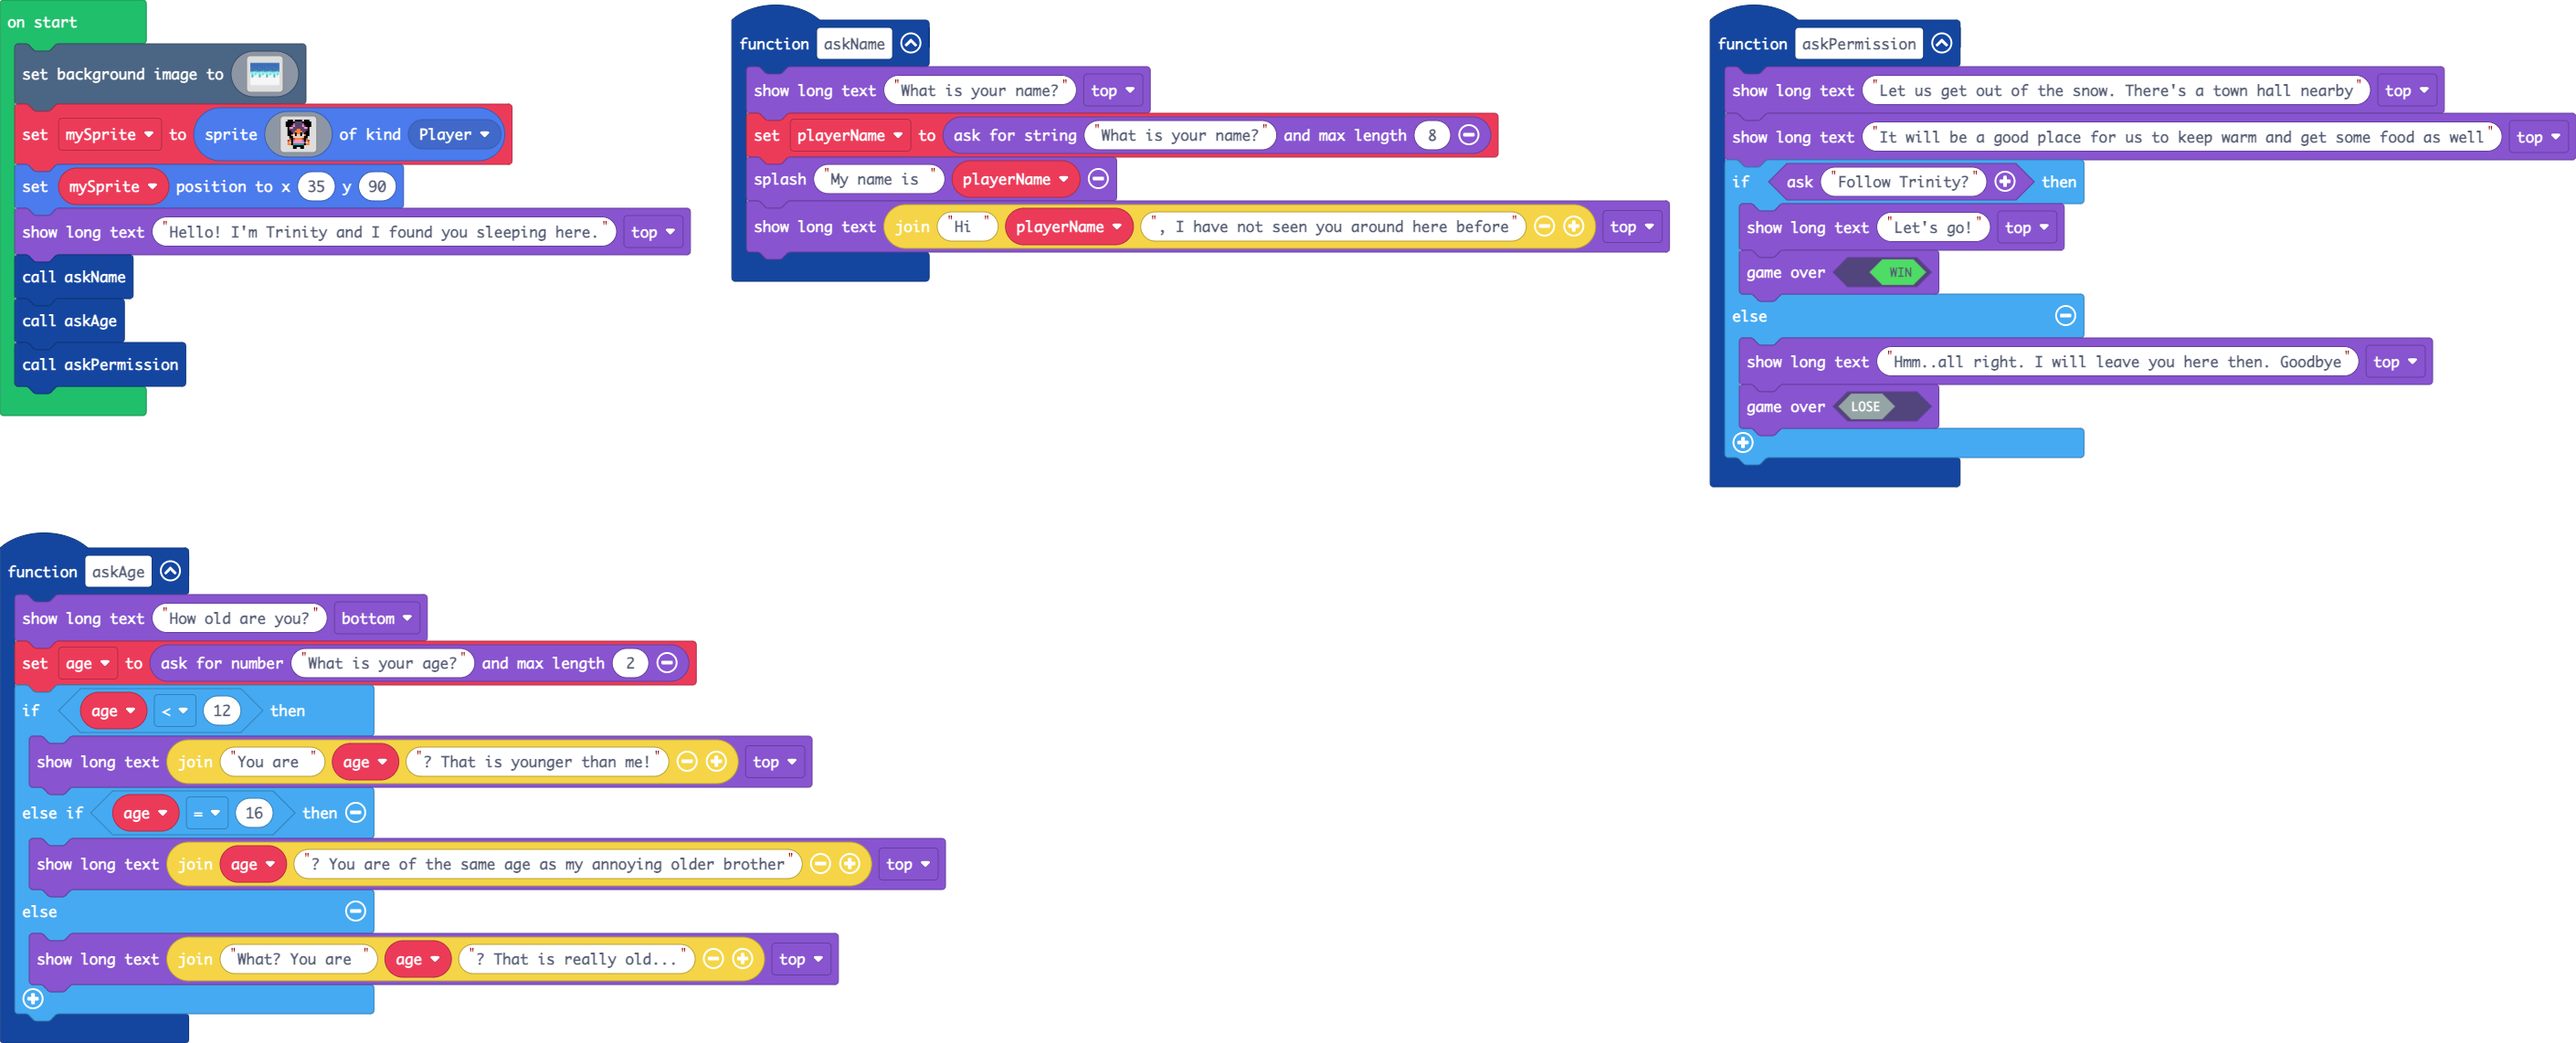
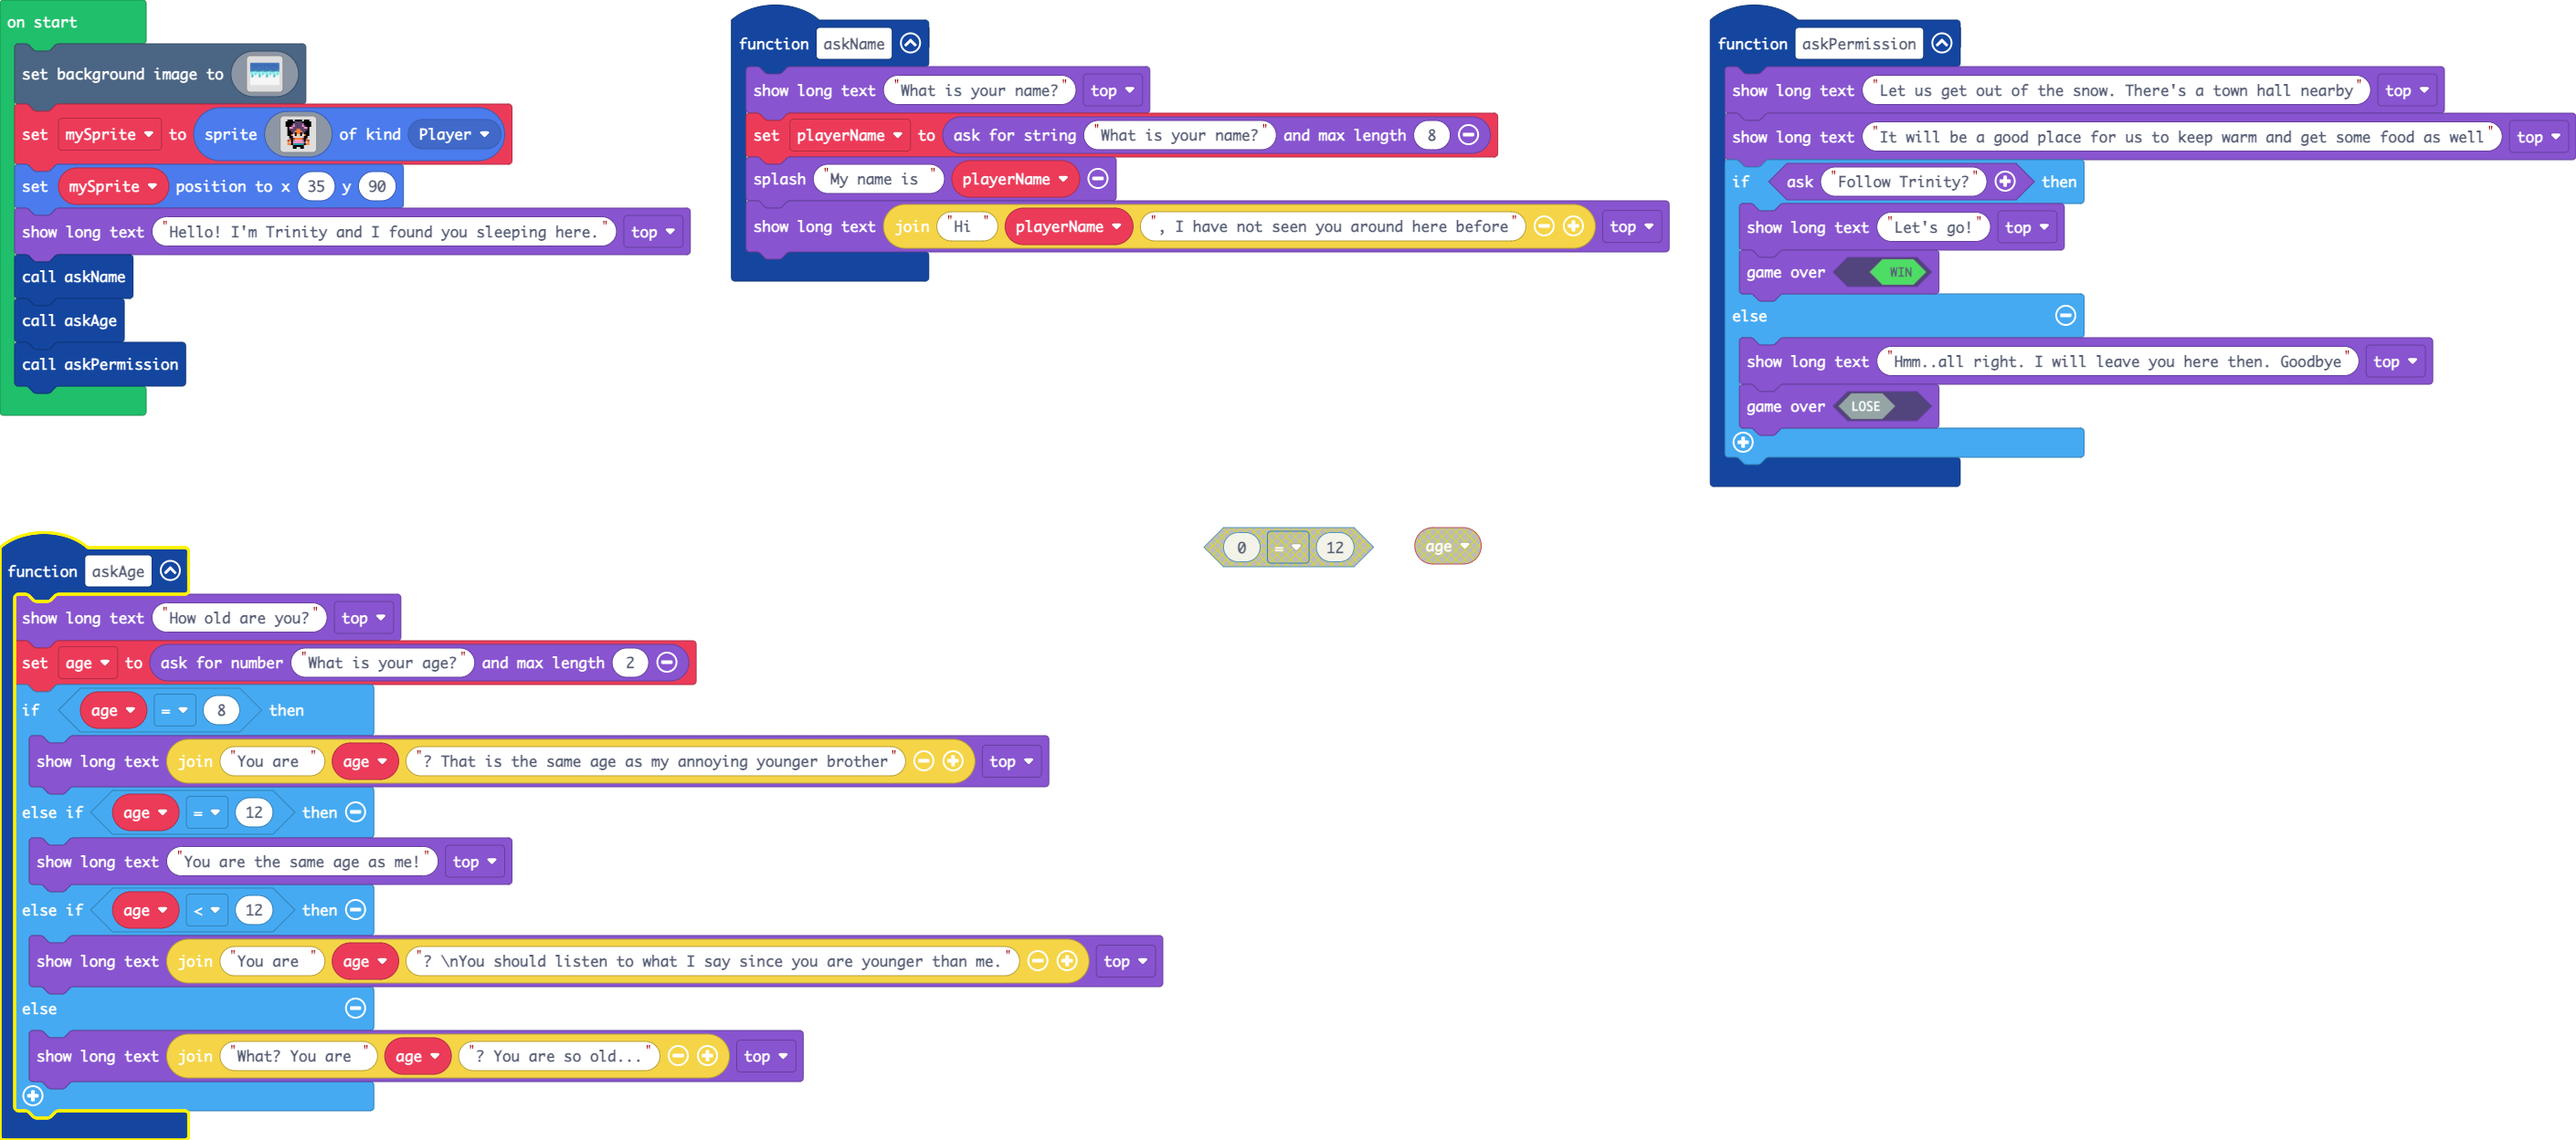
Updating conditional checks and replies for age

Changed region(s): [[0.0, 0.0, 1.0, 0.4904], [0.0, 0.4597, 0.4681, 1.0], [0.4681, 0.4597, 0.5929, 0.521]]

diff --git a/main.ts b/main.ts
@@ -16,14 +16,16 @@ function askPermission () {
     }
 }
 function askAge () {
-    game.showLongText("How old are you?", DialogLayout.Bottom)
+    game.showLongText("How old are you?", DialogLayout.Top)
     age = game.askForNumber("What is your age?", 2)
-    if (age < 12) {
-        game.showLongText("You are " + age + "? That is younger than me!", DialogLayout.Top)
-    } else if (age == 16) {
-        game.showLongText("" + age + "? You are of the same age as my annoying older brother", DialogLayout.Top)
+    if (age == 8) {
+        game.showLongText("You are " + age + "? That is the same age as my annoying younger brother", DialogLayout.Top)
+    } else if (age == 12) {
+        game.showLongText("You are the same age as me!", DialogLayout.Top)
+    } else if (age < 12) {
+        game.showLongText("You are " + age + "? \\nYou should listen to what I say since you are younger than me.", DialogLayout.Top)
     } else {
-        game.showLongText("What? You are " + age + "? That is really old...", DialogLayout.Top)
+        game.showLongText("What? You are " + age + "? You are so old...", DialogLayout.Top)
     }
 }
 let age = 0
